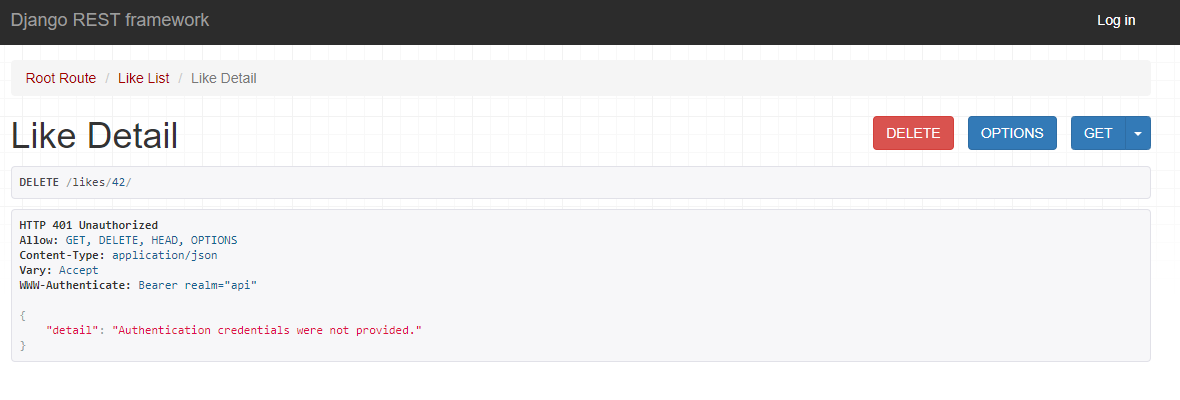
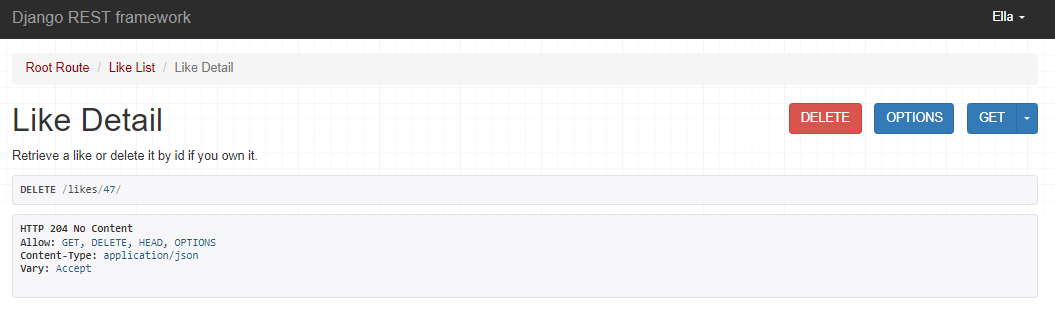
TESTING.md - add images to likes endpoint table

diff --git a/TESTING.md b/TESTING.md
@@ -110,9 +110,9 @@ These tests check if users can access the right information, create and change t
 
 | Endpoint | Method | CRUD Operation | Description | Images | Expected Result | Actual Result | Pass/Fail |
 |----------|--------|----------------|-------------|--------|-----------------|---------------|-----------|
-| `/likes/` | GET | Read | List all likes | <details><summary>Click to view Likes List</summary>![Likes](doc/images/likes/likes-get-all.png)</details> | Returns a list of all likes | Returned a list of all likes successfully | ✅ |
+| `/likes/` | GET | Read | List all likes | <details><summary>Click to view Likes List</summary>![Likes](doc/images/likes/likes-get-all2.png)</details> | Returns a list of all likes | Returned a list of all likes successfully | ✅ |
 | `/likes/` | POST | Create | Create a new like (authenticated users only) | <details><summary>Click to view Create Like step 1</summary>![Likes](doc/images/likes/likes-post-user-1.png)</details> <details><summary>Click to view Create Like step 2</summary>![Likes](doc/images/likes/likes-post-user-2.png)</details> | New like is created and returned | New like created and returned successfully | ✅ |
-| `/likes/{id}/` | GET | Read | Retrieve a specific like | <details><summary>Click to view Like Detail step 1</summary>![Likes](doc/images/likes/likes-get-user-1.png)</details> <details><summary>Click to view Like Detail step 2</summary>![Likes](doc/images/likes/likes-get-user-2.png)</details> | Returns details of a specific like | Returned correct details for the specified like | ✅ |
+| `/likes/{id}/` | GET | Read | Retrieve a specific like | <details><summary>Click to view Like Detail step 1</summary>![Likes](doc/images/likes/likes-logged-in-get-1.png)</details> <details><summary>Click to view Like Detail step 2</summary>![Likes](doc/images/likes/likes-get-user-2.png)</details> | Returns details of a specific like | Returned correct details for the specified like | ✅ |
 | `/likes/{id}/` | DELETE | Delete | Delete a specific like (owner only) | <details><summary>Click to view Delete Like step 1</summary>![Likes](doc/images/likes/likes-delete-user-1.png)</details> <details><summary>Click to view Delete Like step 2</summary>![Likes](doc/images/likes/likes-delete-user-2.png)</details> <details><summary>Click to view Delete Like step 3</summary>![Likes](doc/images/likes/likes-delete-user-3.png)</details>| Deletes the specified like for the authenticated owner | Like deleted successfully for the authenticated owner | ✅ |
 
 [Back to top](#table-of-contents)
